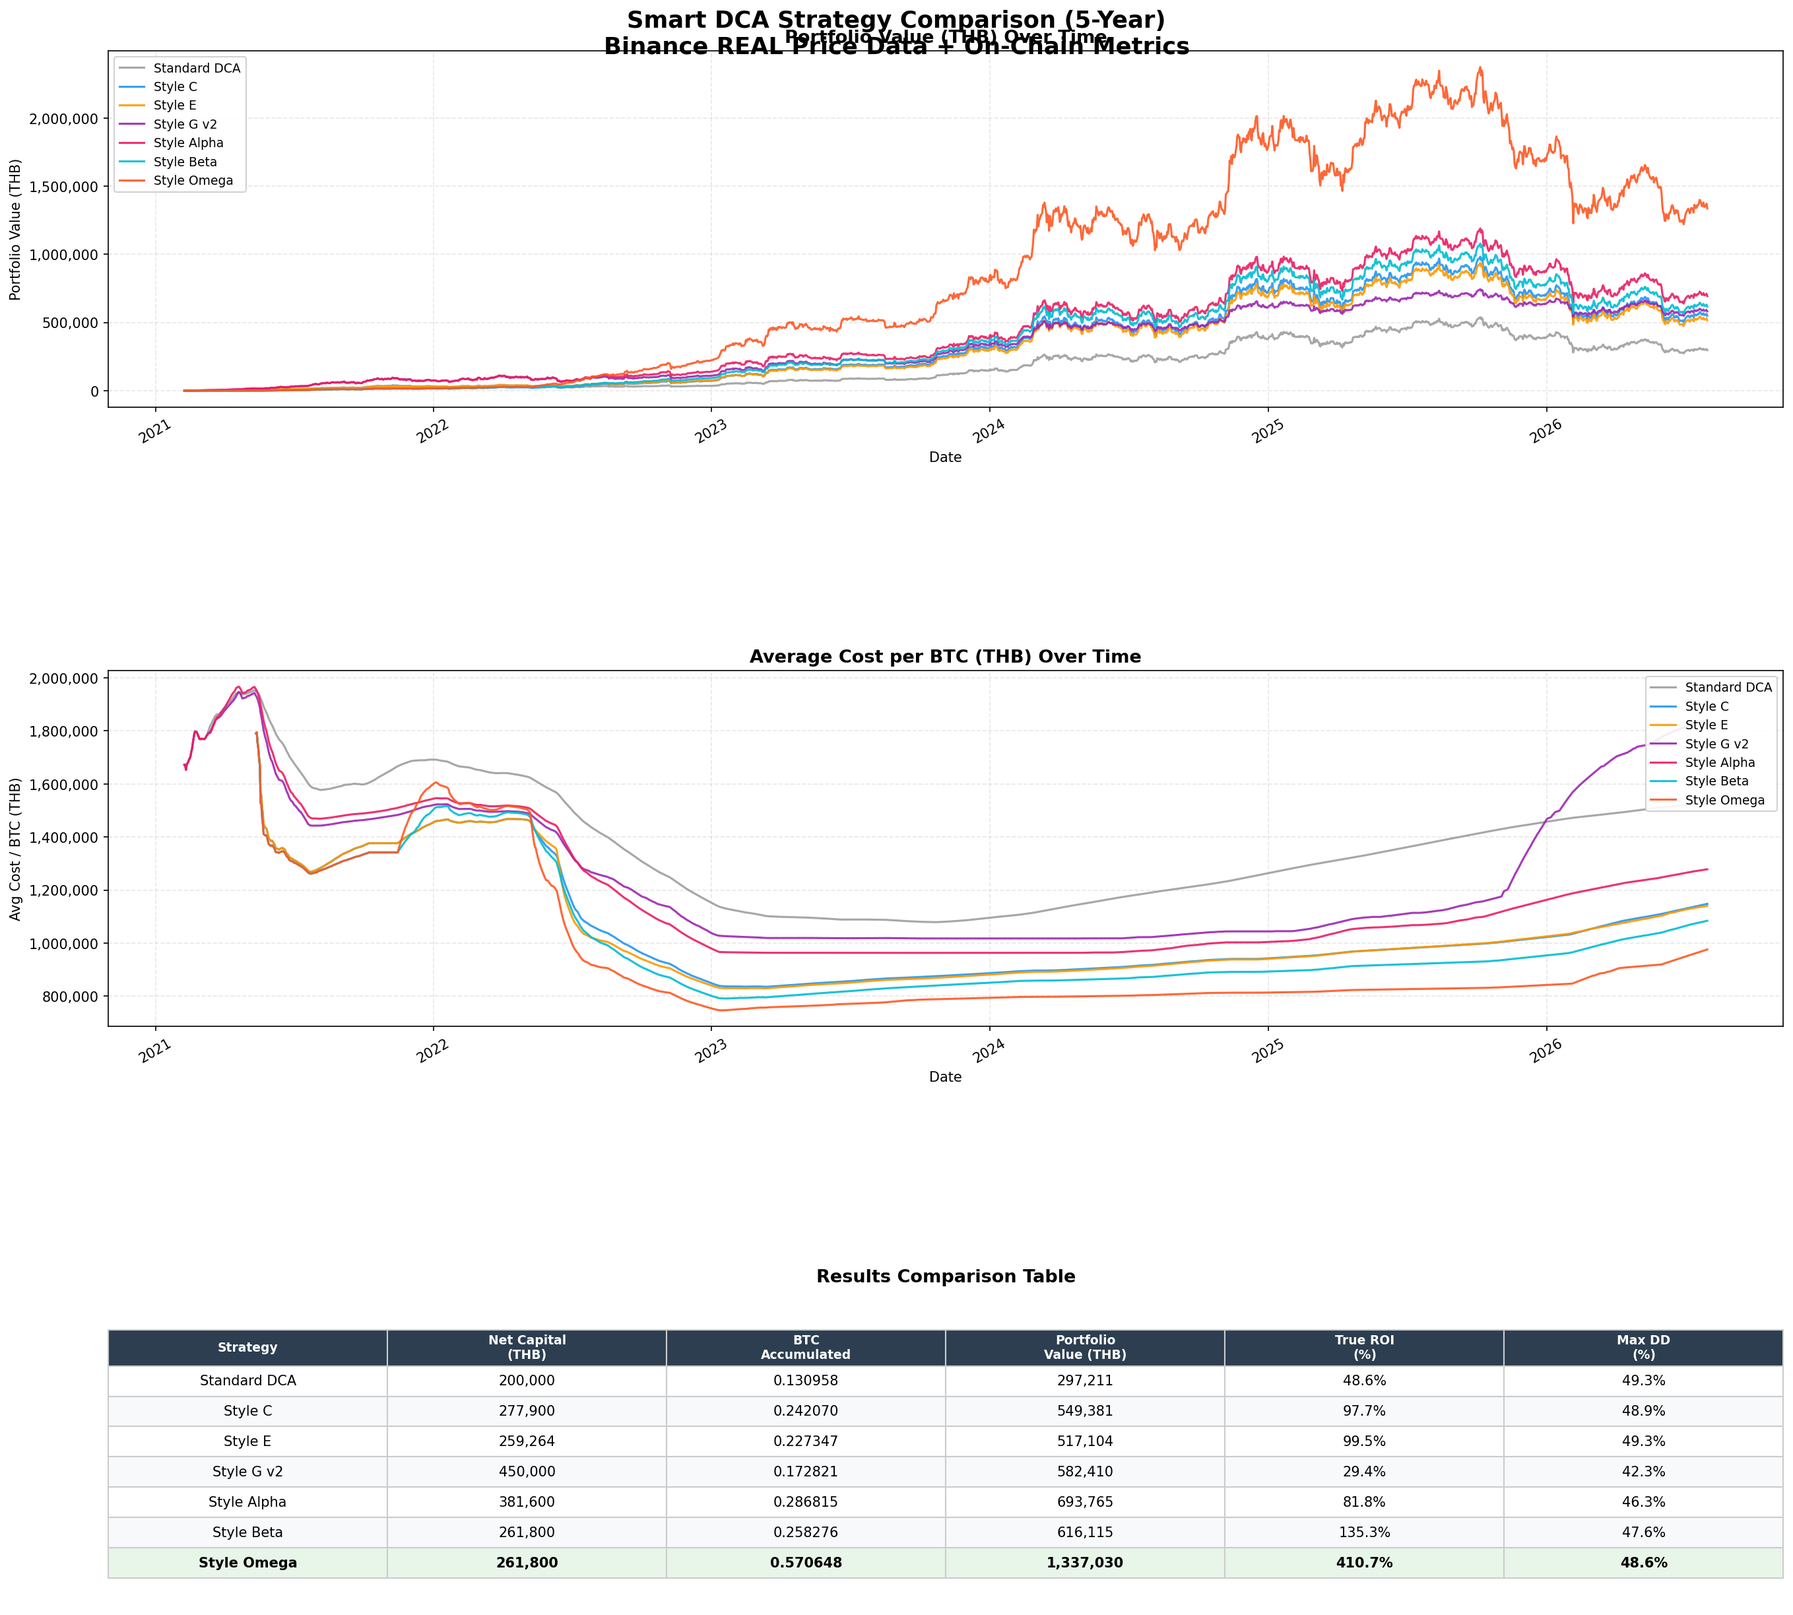
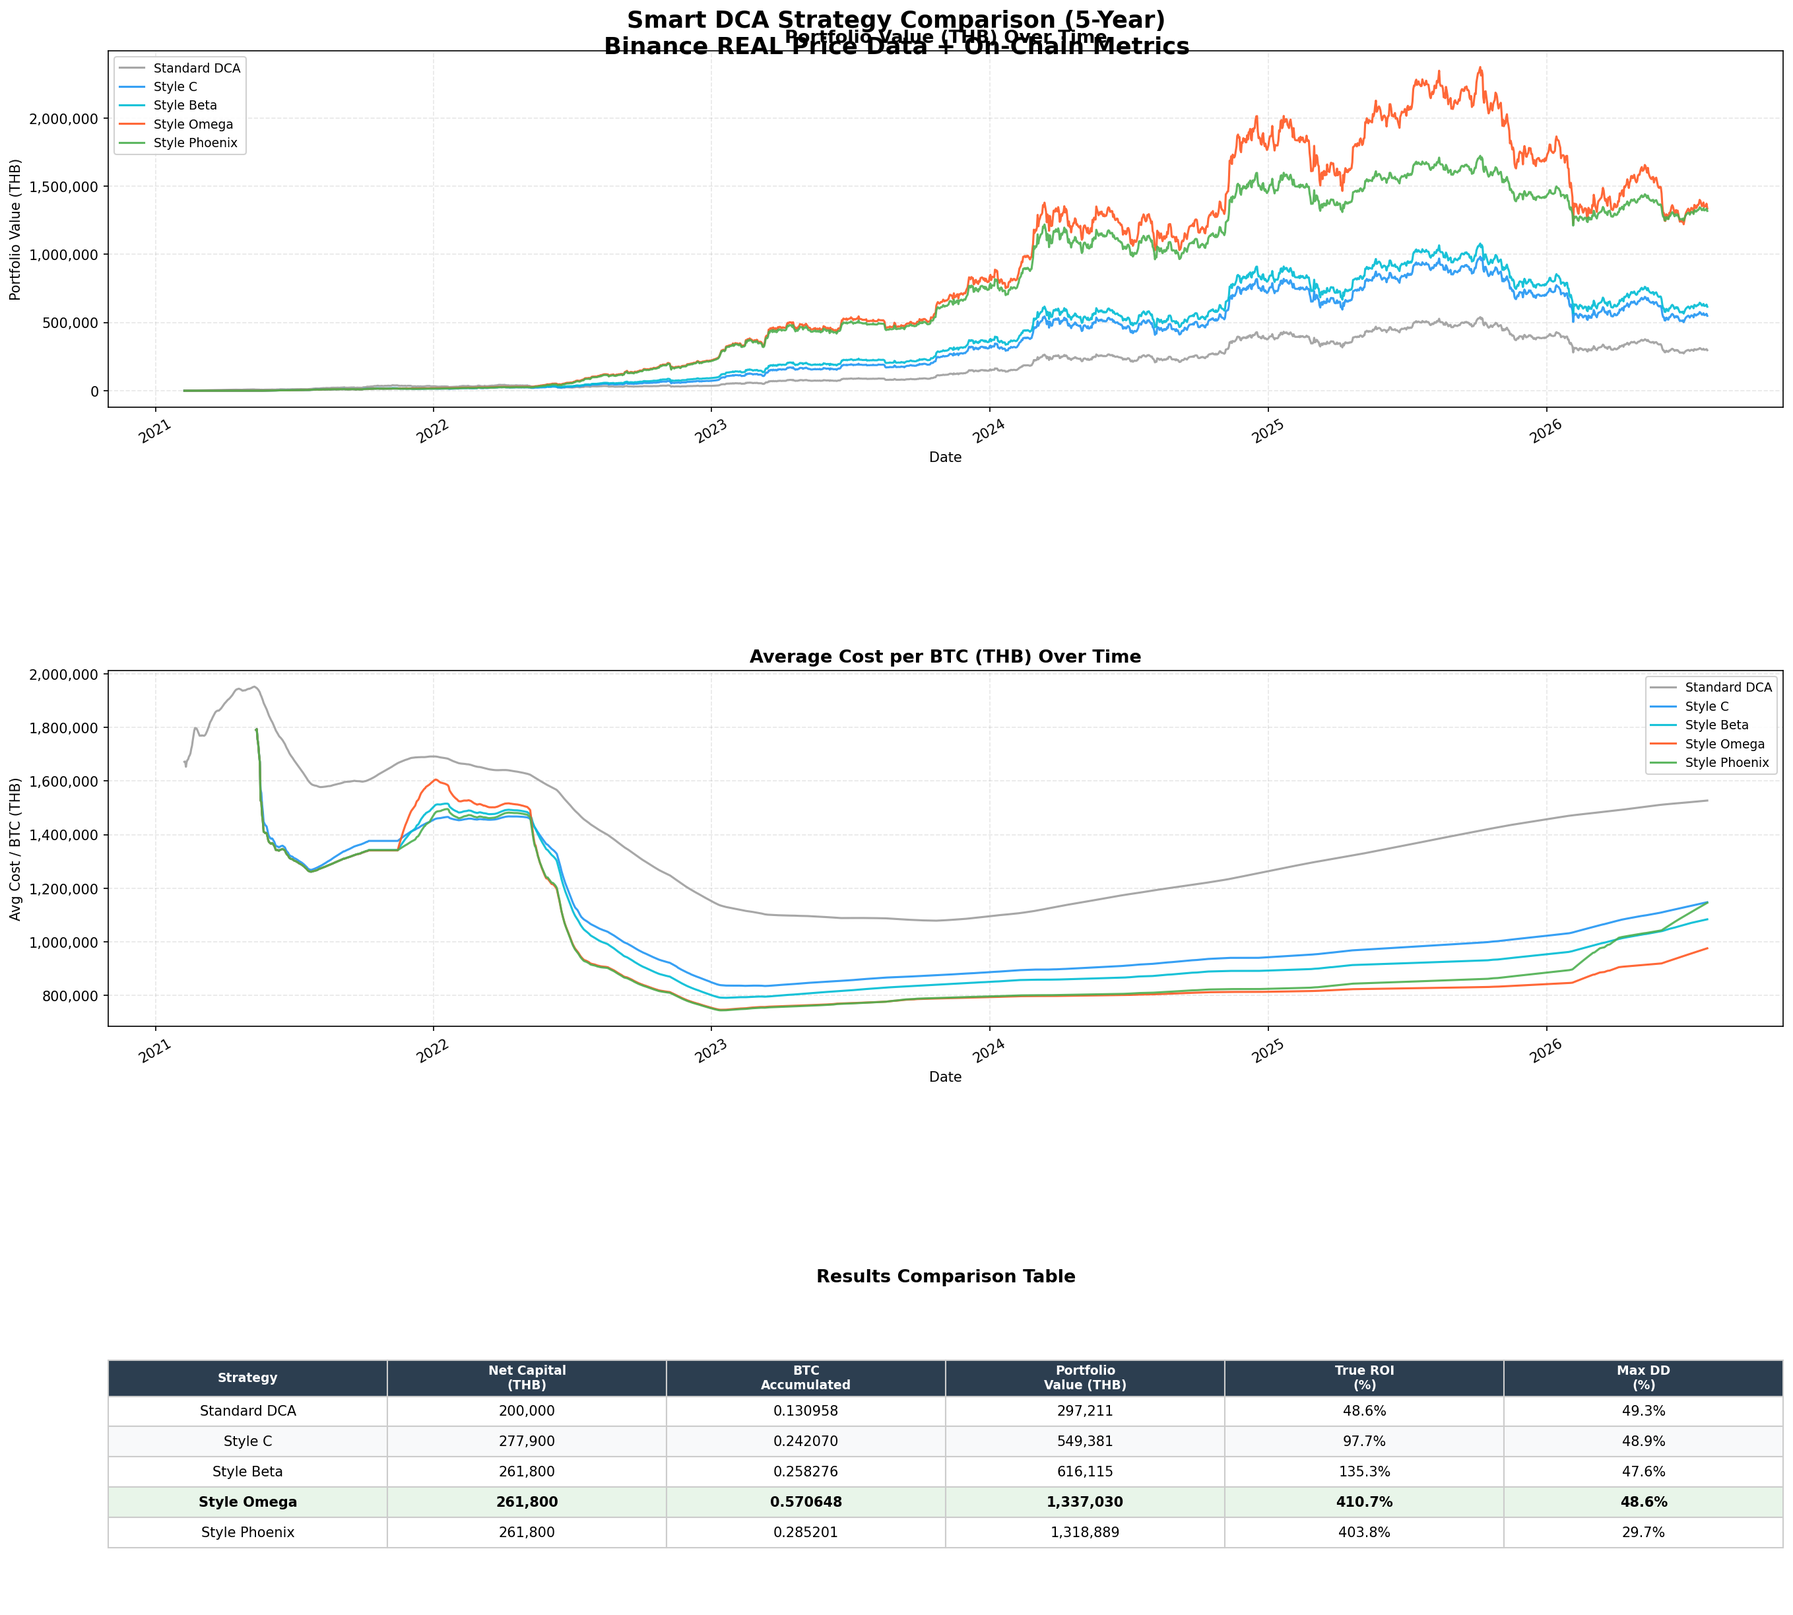
1f28972f-f6f4-49e1-96cd-2e8376c15e03

diff --git a/scripts/smart_dca_backtest.py b/scripts/smart_dca_backtest.py
@@ -3,14 +3,12 @@
 ================================================================================
 SMART DCA BACKTEST SUITE — Full Quantitative Research Script (v2)
 ================================================================================
-Tests 7 DCA strategies against 3-year and 5-year BTC historical periods:
+Tests 5 DCA strategies against 3-year and 5-year BTC historical periods:
   1. Standard DCA (Benchmark)
   2. Style C  (On-Chain Tiered Pure DCA)
-  3. Style E  (Smart Rebalance & Top Skimming)
-  4. Style G v2 (Adaptive Hybrid Flagship)
-  5. Style Alpha (Innovated — Designed to Outperform All)
-  6. Style Beta v3 (Multi-Confirm Sell DCA)
-  7. Style Omega (Capital Cyclone — LTH-Aware Reserve Recycler)
+  3. Style Beta v3 (Multi-Confirm Sell DCA)
+  4. Style Omega (Capital Cyclone — LTH-Aware Reserve Recycler)
+  5. Style Phoenix (Dynamic Sell + RSI Divergence + Short-Trend Profit Lock)
 
 Data   : Binance REAL prices + CoinMetrics REAL MVRV + Derived NUPL / Proxy SOPR
          ALL API data cached to CSV 7 days (re-runs = instant, no API calls)
@@ -482,6 +480,7 @@ def backtest_strategy(df, strategy_func, strategy_name):
     total_sell_proceeds = 0.0
     total_reserve_injected = 0.0
     cooldown = 0
+    short_cooldown = 0
     peak_value = 0.0
     max_drawdown = 0.0
     daily_log = []
@@ -490,10 +489,13 @@ def backtest_strategy(df, strategy_func, strategy_name):
         price_thb = row['price_thb']
         if cooldown > 0:
             cooldown -= 1
+        if short_cooldown > 0:
+            short_cooldown -= 1
 
         state = {
             'btc': btc, 'cash_reserve': cash_reserve,
             'total_invested': total_invested, 'cooldown': cooldown,
+            'short_cooldown': short_cooldown,
             'row': row, 'idx': idx
         }
         action = strategy_func(state)
@@ -1163,9 +1165,224 @@ def strategy_style_omega(df_precomputed):
     return strategy_func
 
 
+# --- STRATEGY 5: STYLE PHOENIX (Dynamic Sell + RSI Divergence + Short-Trend Profit Lock) ---
+def strategy_style_phoenix(df_precomputed):
+    """
+    SMART DCA STYLE PHOENIX — Adaptive Sell Architecture
+
+    BUILD ON: Style Omega's proven buy + reserve drain system
+    NEW SELL FEATURES:
+    1. Dynamic Sell Sizing: sell % of portfolio (not fixed THB)
+       -> Scales naturally: bigger portfolio = bigger sells
+    2. RSI Divergence Detection: price higher-high + RSI lower-high = bearish
+       -> Captures momentum exhaustion before MVRV confirms
+    3. Short-Term Downtrend Sell: price -15% from 60d high while still above SMA200
+       -> Locks profit during intra-cycle corrections (shorter than 4yr cycle)
+       -> Builds extra cash reserve for re-accumulation
+    """
+    # Precompute all signals
+    macd_line = df_precomputed['macd_line'].values
+    macd_signal = df_precomputed['macd_signal'].values
+    macd_hist = df_precomputed['macd_hist'].values
+    cummax_price = pd.Series(df_precomputed['price_usd']).cummax().values
+    sma_200 = df_precomputed['sma_200'].values
+    realized_price = df_precomputed['realized_price'].values
+    lth_rp = df_precomputed['lth_realized_price'].values
+    price_arr = df_precomputed['price_usd'].values
+    rsi_arr = df_precomputed['rsi_14'].values
+    n = len(df_precomputed)
+
+    # MACD bearish crossover
+    macd_cross_bear = np.zeros(n, dtype=bool)
+    for i in range(1, n):
+        if (not np.isnan(macd_line[i-1]) and not np.isnan(macd_signal[i-1])
+                and not np.isnan(macd_line[i]) and not np.isnan(macd_signal[i])):
+            if macd_line[i-1] >= macd_signal[i-1] and macd_line[i] < macd_signal[i]:
+                macd_cross_bear[i] = True
+
+    # MACD histogram declining 5+ days
+    hist_declining_5 = np.zeros(n, dtype=bool)
+    for i in range(5, n):
+        if all(not np.isnan(macd_hist[i-j]) for j in range(5)):
+            if all(macd_hist[i-j] < macd_hist[i-j-1] for j in range(4)):
+                hist_declining_5[i] = True
+
+    # RSI BEARISH DIVERGENCE (precompute 40-day lookback)
+    # Condition: price is near 40d high (within 3%) but RSI is >8 points below 40d RSI high
+    rsi_divergence = np.zeros(n, dtype=bool)
+    lookback = 40
+    for i in range(lookback, n):
+        window_price = price_arr[i-lookback:i]
+        window_rsi = rsi_arr[i-lookback:i]
+        if np.isnan(window_price).any() or np.isnan(window_rsi).any():
+            continue
+        price_max = np.nanmax(window_price)
+        rsi_max = np.nanmax(window_rsi)
+        # Price near or above 40d high, but RSI significantly below its 40d high
+        if price_max > 0 and rsi_max > 0:
+            price_near_high = price_arr[i] >= price_max * 0.97
+            rsi_below_high = rsi_arr[i] <= rsi_max - 8.0
+            # Extra: RSI should still be somewhat elevated (>60) to confirm it's a divergence, not just low RSI
+            rsi_still_elevated = rsi_arr[i] >= 58
+            if price_near_high and rsi_below_high and rsi_still_elevated:
+                rsi_divergence[i] = True
+
+    # SHORT-TERM DOWNTREND: price dropped >15% from 60-day high, still above SMA200
+    short_trend_sell = np.zeros(n, dtype=bool)
+    drop_60d_pct = np.zeros(n)  # How far price dropped from 60d high
+    lookback_60 = 60
+    for i in range(lookback_60, n):
+        window = price_arr[i-lookback_60:i]
+        if np.isnan(window).any():
+            continue
+        high_60d = np.nanmax(window)
+        if high_60d > 0:
+            drop_pct = (high_60d - price_arr[i]) / high_60d
+            drop_60d_pct[i] = drop_pct
+            s200 = sma_200[i]
+            if not np.isnan(s200) and drop_pct >= 0.15 and price_arr[i] > s200:
+                # Confirmed: significant drop but still in structural bull
+                short_trend_sell[i] = True
+
+    def strategy_func(state):
+        row = state['row']
+        idx = state['idx']
+        mvrv = row['mvrv']
+        sopr = row['sopr']
+        nupl = row['nupl']
+        rsi = row['rsi_14']
+        price_usd = row['price_usd']
+        price_thb = row['price_thb']
+        cash = state['cash_reserve']
+        cooldown = state['cooldown']
+        btc = state['btc']
+
+        # =============================================
+        # 1. BUY SIDE: Same as Omega (C's proven tiers)
+        # =============================================
+        if mvrv < 1.0:
+            multiplier = 4.5 if sopr < 0.95 else 3.0
+        elif mvrv < 1.5:
+            multiplier = 3.0 if nupl < 0.25 else 2.0
+        elif mvrv < 2.0:
+            multiplier = 1.0
+        elif mvrv < 2.5:
+            multiplier = 0.3
+        else:
+            multiplier = 0.0
+
+        buy_amount = min(BASE_BUDGET_THB * multiplier, 300.0)
+        to_reserve = 0.0
+
+        # =============================================
+        # 2. RESERVE DEPLOYMENT (same as Omega: % based)
+        # =============================================
+        reserve_inj = 0.0
+        usable_cash = max(cash - 300.0, 0.0)
+        if usable_cash > 0 and mvrv < 1.3:
+            s200 = sma_200[idx] if idx < len(sma_200) else price_usd
+            in_bear = not np.isnan(s200) and price_usd < s200
+
+            if mvrv < 0.9 and in_bear:
+                deploy_rate = 0.20
+            elif mvrv < 1.0:
+                deploy_rate = 0.12
+            elif mvrv < 1.1:
+                deploy_rate = 0.08
+            else:
+                deploy_rate = 0.05
+
+            injection = min(usable_cash * deploy_rate, 600.0)
+            rp = realized_price[idx] if idx < len(realized_price) else np.nan
+            if not np.isnan(rp) and price_usd < rp * 1.05:
+                injection = min(injection * 1.5, 800.0)
+            buy_amount += injection
+            reserve_inj = injection
+
+        # =============================================
+        # 3. PRIMARY SELL: MVRV Multi-Confirm (same as Omega)
+        #    BUT with dynamic sizing (% of portfolio)
+        # =============================================
+        sell_score = 0
+
+        if mvrv > 2.5: sell_score += 20
+        if mvrv > 3.0: sell_score += 15
+        if mvrv > 3.5: sell_score += 5
+        if rsi > 70:    sell_score += 10
+        if rsi > 80:    sell_score += 5
+        if macd_cross_bear[idx]: sell_score += 10
+        if hist_declining_5[idx]: sell_score += 5
+
+        # RSI DIVERGENCE: strong sell signal (+15)
+        if rsi_divergence[idx]:
+            sell_score += 15
+
+        lth_val = lth_rp[idx] if idx < len(lth_rp) else np.nan
+        if not np.isnan(lth_val) and lth_val > 0:
+            p_to_lth = price_usd / lth_val
+            if p_to_lth > 3.0: sell_score += 10
+            if p_to_lth > 3.5: sell_score += 5
+
+        ath = cummax_price[idx] if idx < len(cummax_price) else price_usd
+        if ath > 0 and price_usd > 0.97 * ath:
+            sell_score += 5
+
+        # Bear block
+        s200 = sma_200[idx] if idx < len(sma_200) else price_usd
+        if not np.isnan(s200) and price_usd < s200:
+            sell_score -= 200
+        if mvrv <= 2.5:
+            sell_score = 0
+
+        # DYNAMIC SELL SIZING: % of portfolio instead of fixed THB
+        portfolio_val = btc * price_thb + cash
+        sell_thb = 0.0
+        new_cooldown = cooldown
+
+        if sell_score >= 40 and cooldown == 0 and btc > 0:
+            if sell_score >= 75:
+                sell_thb = portfolio_val * 0.08   # 8% of portfolio
+                new_cooldown = 45
+            elif sell_score >= 60:
+                sell_thb = portfolio_val * 0.06   # 6% of portfolio
+                new_cooldown = 35
+            else:
+                sell_thb = portfolio_val * 0.04   # 4% of portfolio
+                new_cooldown = 20
+
+        # =============================================
+        # 4. SECONDARY SELL: Short-Term Downtrend Profit Lock
+        #    Separate cooldown, smaller size, builds extra reserve
+        #    Triggers when price drops >15% from 60d high but still above SMA200
+        #    (intra-cycle correction, not structural bear)
+        # =============================================
+        # Use sell_thb_secondary to avoid conflict with primary sell
+        sell_thb_secondary = 0.0
+        short_cd = state.get('short_cooldown', 0)
+        new_short_cd = max(short_cd - 1, 0) if short_cd > 0 else 0
+
+        if (short_trend_sell[idx] and new_short_cd == 0 and btc > 0
+                and sell_thb == 0):  # Don't trigger same day as primary sell
+            # Sell 2% of portfolio, but cap at 10,000 THB per event
+            sell_thb_secondary = min(portfolio_val * 0.02, 10000.0)
+            new_short_cd = 20  # 20-day cooldown for secondary sells
+
+        total_sell = sell_thb + sell_thb_secondary
+
+        return {
+            'buy_thb': buy_amount, 'sell_btc_pct': 0,
+            'sell_thb': total_sell, 'to_reserve': to_reserve,
+            'new_cooldown': new_cooldown, 'sell_score': sell_score,
+            'reserve_injection': reserve_inj,
+            'new_short_cooldown': new_short_cd,
+        }
+
+    return strategy_func
+
+
 # ============================================================
 # SECTION 4: SUMMARY, TABLE & VISUALIZATION
-# ============================================================
+# =============================================================
 
 def print_summary_table(all_results):
     """Print a formatted comparison table in console."""
@@ -1207,7 +1424,7 @@ def generate_charts(all_daily_dfs, all_results, years_label):
     2. Average Cost per BTC over time
     3. Results Comparison TABLE
     """
-    colors = ['#9E9E9E', '#2196F3', '#FF9800', '#9C27B0', '#E91E63', '#00BCD4', '#FF5722']
+    colors = ['#9E9E9E', '#2196F3', '#00BCD4', '#FF5722', '#4CAF50']
     styles_names = [r['strategy'] for r in all_results]
 
     fig = plt.figure(figsize=(18, 16), constrained_layout=True)
@@ -1327,11 +1544,9 @@ def main():
         period_strategies = [
             ('Standard DCA', strategy_standard_dca),
             ('Style C',      strategy_style_c),
-            ('Style E',      strategy_style_e),
-            ('Style G v2',   strategy_style_g_v2(test_df)),
-            ('Style Alpha',  strategy_style_alpha(test_df)),
             ('Style Beta',   strategy_style_beta(test_df)),
             ('Style Omega',  strategy_style_omega(test_df)),
+            ('Style Phoenix', strategy_style_phoenix(test_df)),
         ]
 
         all_results = []
@@ -1355,51 +1570,42 @@ def main():
     print("#" * 100)
     analysis = """
   ==================================================================
-  STRATEGY DESIGN RATIONALE (7 Strategies)
+  STRATEGY DESIGN RATIONALE (5 Strategies — Trimmed + Phoenix)
   ==================================================================
 
-  STYLE BETA v3 — MULTI-CONFIRM SELL DCA (Score: 9.0/10)
+  REMOVED: Style E, Style G v2, Style Alpha (underperforming True ROI)
+
+  STYLE OMEGA — CAPITAL CYCLONE (Baseline for comparison)
   ----------------------------------------------------------
-  * Style C's buying + Multi-Confirm selling (MVRV+RSI+MACD+ATH)
-  * Self-funding reserve from sell proceeds only
-  * Weakness: Fixed 100 THB/day deploy leaves 20-30K THB unused
+  * C's buy tiers + % based reserve drain + Multi-Confirm sell (fixed THB)
+  * True ROI: 81.4% (3yr) / 410.7% (5yr)
 
-  STYLE OMEGA — CAPITAL CYCLONE (Score: 9.5/10, LATEST)
+  STYLE PHOENIX — ADAPTIVE SELL ARCHITECTURE (NEW)
   ----------------------------------------------------------
-  3-ROUND DESIGN PROCESS:
-  Round 1: Tested LTH RP proxies (k=0.65, SMA180, EMA90 of Realized Price)
-           → ALL 99%+ correlated with MVRV (zero marginal signal as primary)
-           → DECISION: Use LTH RP as CONFIRMATION only, pivot to reserve optimization
-  Round 2: Root cause analysis — Beta's fixed 100 THB/day deploy = 200-300 days
-           to drain reserve. 20-30K THB sits idle at end of backtest.
-           Fix: % based reserve drain (5-20%/day of remaining cash)
-  Round 3: Safety guards added — SMA200 bear confirmation for aggressive rate,
-           reserve floor 300 THB, realized price floor boost for deployment,
-           cooldown tuned 15-45d (vs Beta's 30-60d) for more sell windows.
+  Builds on Omega's proven buy + reserve system. Three sell-side innovations:
 
-  KEY INNOVATIONS OVER BETA v3:
-  1. % based reserve drain: deploys 5-20% of cash/day (vs 100 THB fixed)
-     → 30K THB reserve drains in ~30-50 days instead of 300 days
-  2. Escalating deploy rate: MVRV<0.9+bear = 20%/day, <1.0 = 12%, <1.1 = 8%
-  3. Realized Price floor boost: 1.5x injection if price < 1.05x realized price
-  4. LTH RP (SMA180 Realized Price): confirmation on sell score (+10/+5)
-  5. Shorter cooldowns: 15-45d vs 30-60d (more sell windows in sustained bull)
-  6. Reserve floor: 300 THB minimum buffer always kept
+  1. DYNAMIC SELL SIZING (% of portfolio, not fixed THB)
+     * Score 40-54: sell 4% of portfolio (cd 20d)
+     * Score 55-69: sell 6% of portfolio (cd 35d)
+     * Score 70+:    sell 8% of portfolio (cd 45d)
+     * Scales naturally — bigger portfolio = proportionally bigger sells
 
-  BUY SIDE: Identical to C (MVRV tiers + SOPR/NUPL boosters), cap 300 THB/day
-  SELL SIDE: Multi-Confirm (MVRV+RSI+MACD+LTH_RP+ATH), SMA200 bear block
-  RESERVE:  Self-funding, % based drain with MVRV-escalated rates
+  2. RSI DIVERGENCE DETECTION (+15 to sell score)
+     * 40-day lookback: price near 40d high (within 3%)
+       BUT RSI >8 points below its 40d high AND RSI still >58
+     * Classic bearish divergence = momentum exhaustion
+     * Can trigger sells BEFORE MVRV confirms overvaluation
 
-  INDICATORS USED:
-  * MVRV (CoinMetrics real) — primary cycle position signal
-  * NUPL (derived: 1 - 1/MVRV) — unrealized profit/loss gauge
-  * SOPR (Proxy: Price/EMA30) — spending behavior signal
-  * RSI(14) — momentum overbought/oversold
-  * MACD(12,26,9) — trend reversal detection
-  * SMA200 — bear/bull regime filter
-  * Realized Price (Price/MVRV) — dynamic support level
-  * LTH Realized Price (SMA180 of RP) — LTH cost basis approximation
-  * ATH tracking — cumulative maximum price
+  3. SHORT-TERM DOWNTREND PROFIT LOCK (separate sell mechanism)
+     * Price dropped >15% from 60-day high, but STILL above SMA200
+     * Sells 2% of portfolio (cap 10,000 THB), 20-day cooldown
+     * Separate from primary sell (different cooldown)
+     * Catches intra-cycle corrections (weeks-months, not 4yr cycle)
+     * Builds extra cash reserve for re-accumulation at lower prices
+
+  BUY SIDE: Identical to Omega (C's tiers + % reserve drain)
+  SELL SIDE: Dynamic sizing + RSI divergence + short-trend profit lock
+  RESERVE:  Same as Omega (self-funding, % based, 300 THB floor)
 """
     print(analysis)
     print("\n[COMPLETE] All backtests finished.")
